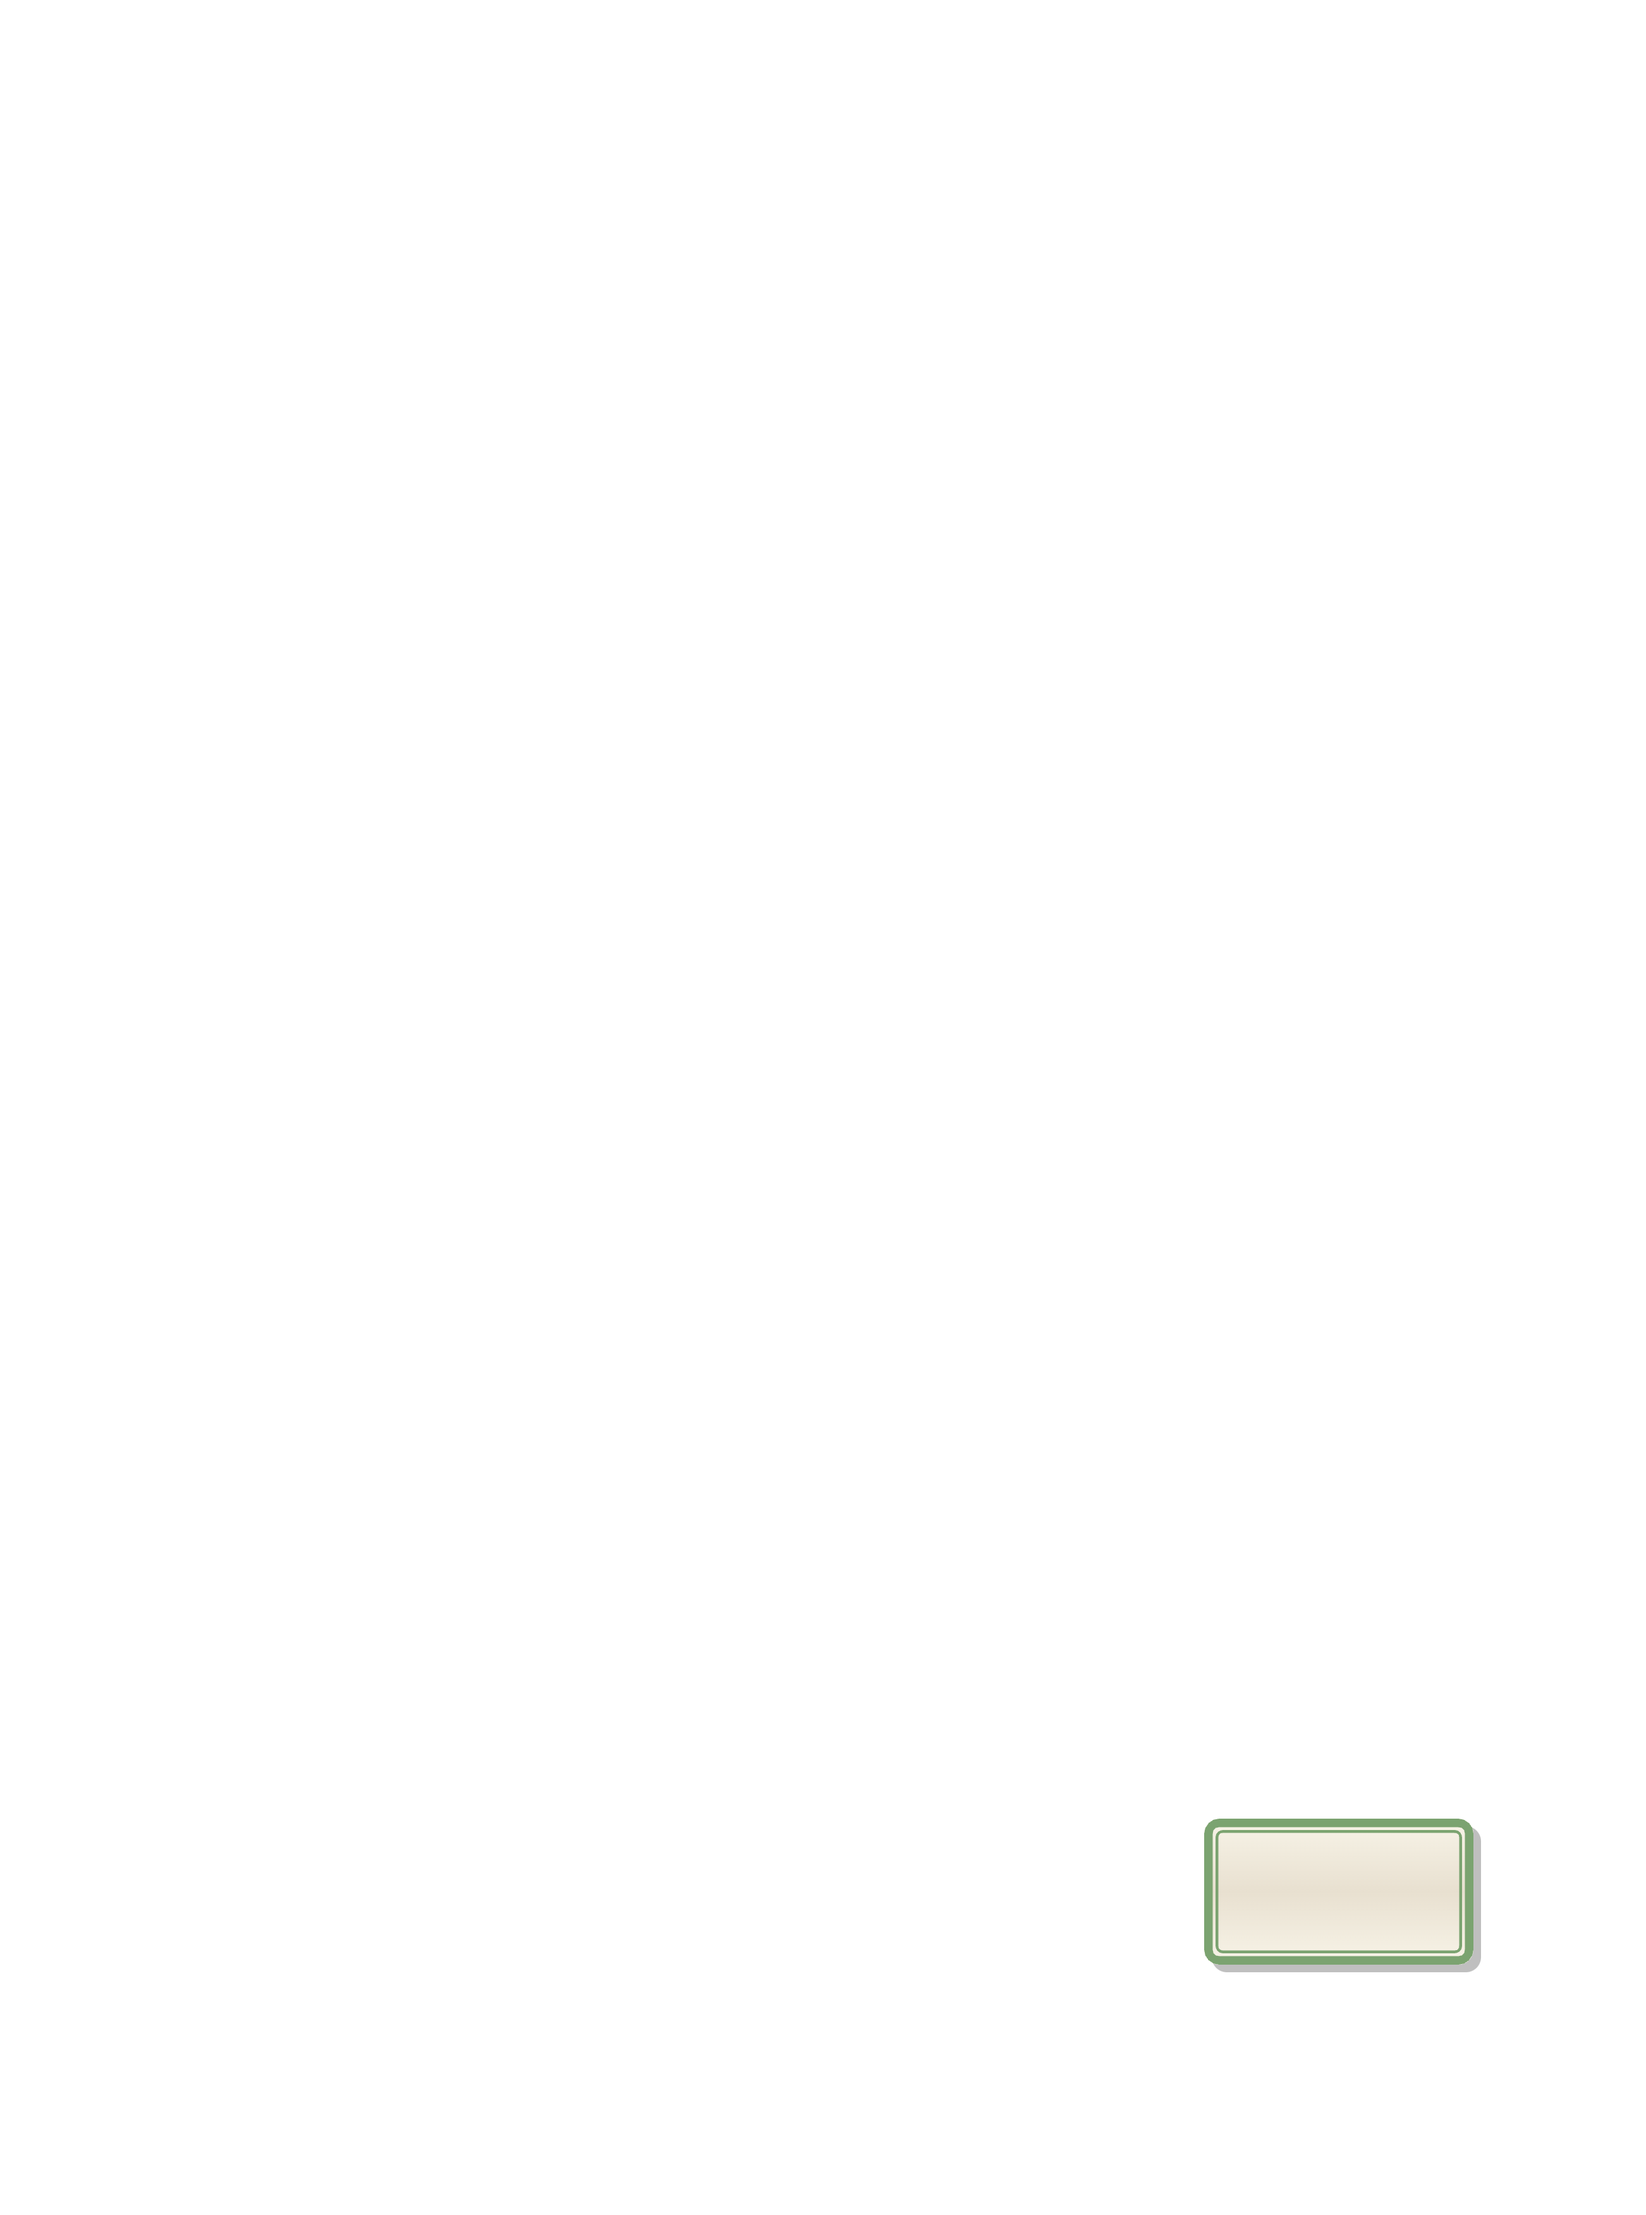
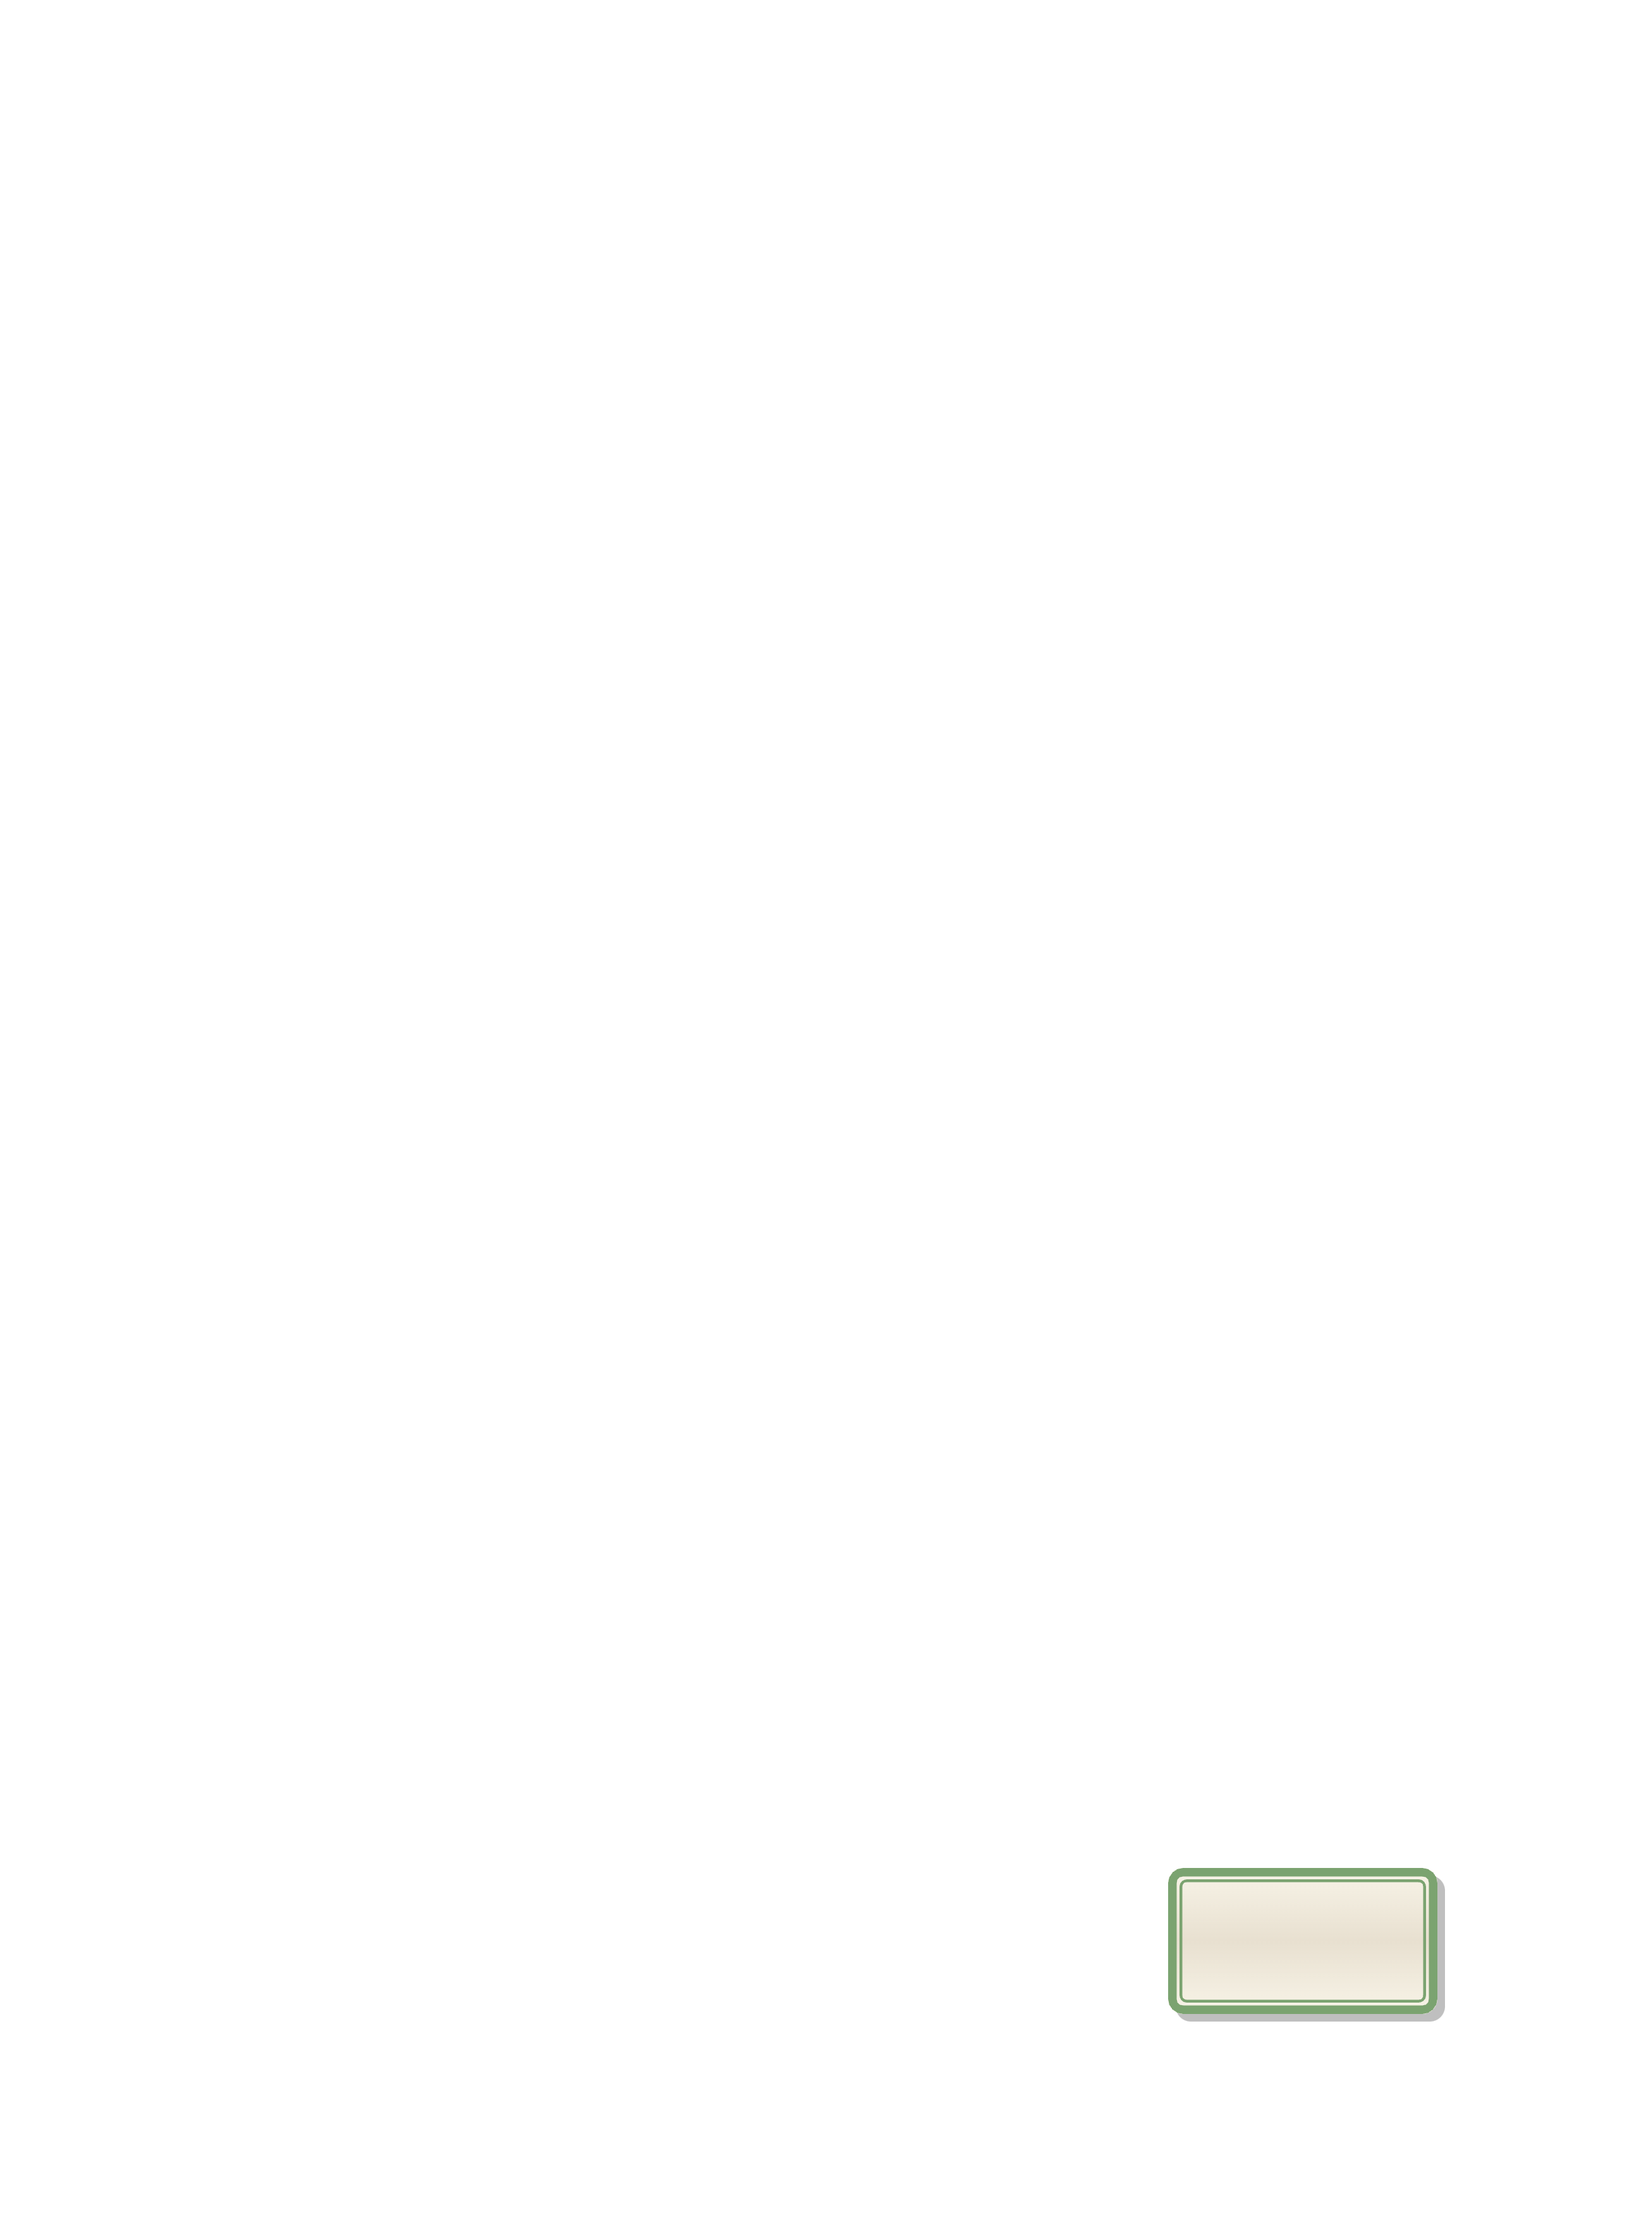
feat: update export configurations and enhance layout for card elements

Changed region(s): [[0.6843, 0.8088, 0.9021, 0.9332]]

diff --git a/designs/README.md b/designs/README.md
@@ -1,24 +1,35 @@
 # MTG Card Design Reference
 
-## mtg_card_test.pen - Export Visibility
+## mtg_card_test.pen - Export Configurations
 
-When exporting the card design, the following elements should have `enabled: false` to be invisible:
+### Always Hide for Export
 
-| Node ID | Name | Purpose |
-|---------|------|---------|
-| `IlCJT` | Bleed Overlay | Black frame showing 5mm bleed area - **Always hide for final export** |
+| Node ID | Name          | Purpose                            |
+| ------- | ------------- | ---------------------------------- |
+| `IlCJT` | Bleed Overlay | Black frame showing 5mm bleed area |
 
-### Placeholder Content (Currently Hidden)
+### Border Export
 
-These elements contain placeholder/sample content and are hidden by default:
+Hide all elements below:
 
-| Node ID | Name |
-|---------|------|
-| `eojXY` | Card Art |
-| `ru6wV` | Type Line |
-| `NuFnE` | Rules Text 1 |
-| `cEEUm` | Rules Text 2 |
-| `AEfIk` | Flavor Text |
+| Node ID | Name            |
+| ------- | --------------- |
+| `eojXY` | Card Art        |
+| `ru6wV` | Type Line       |
+| `NuFnE` | Rules Text 1    |
+| `cEEUm` | Rules Text 2    |
+| `AEfIk` | Flavor Text     |
 | `fBKua` | Paintbrush Icon |
-| `hixfv` | artistName |
-| `CrqRG` | copyright |
+| `hixfv` | artistName      |
+| `CrqRG` | copyright       |
+| `bYaN8` | Card Name       |
+| `RxxNm` | Mana Cost       |
+| `tvWDk` | PT Container    |
+
+### Power Toughness Export
+
+Hide all elements except:
+
+| Node ID | Name         |
+| ------- | ------------ |
+| `tvWDk` | PT Container |
